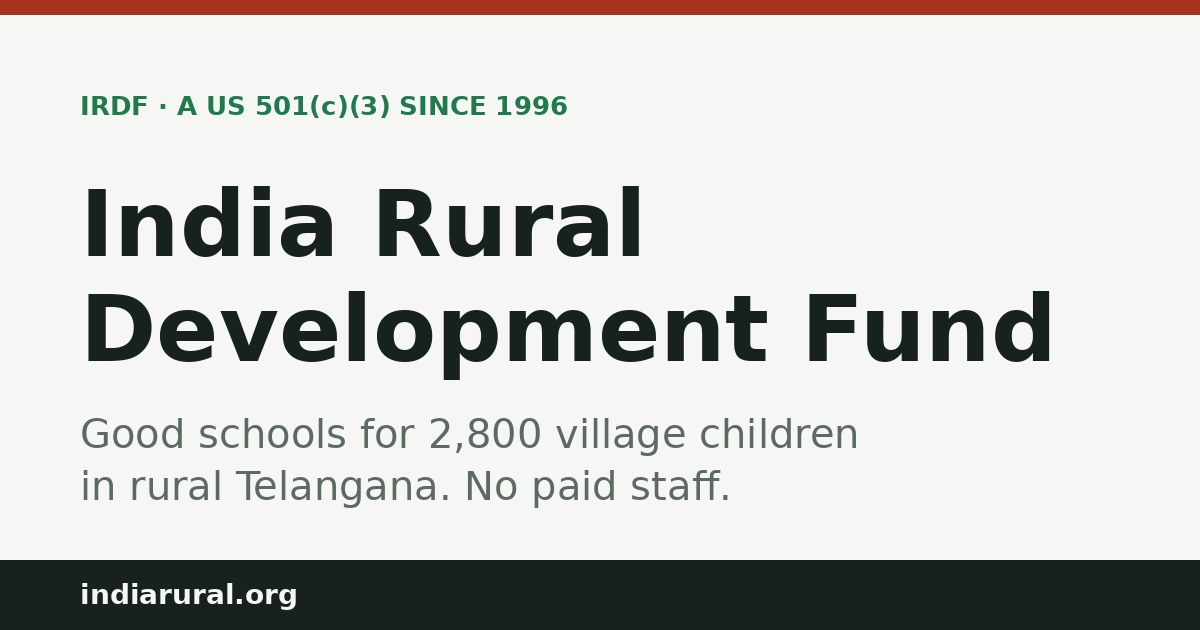
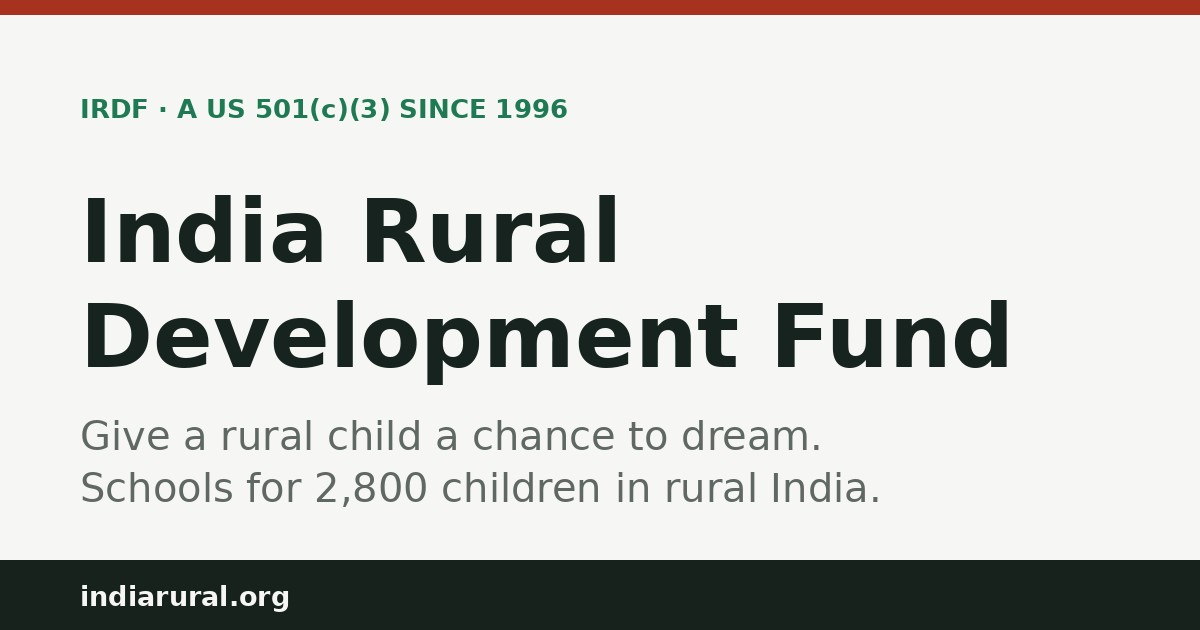
Hero: new tagline, India in place of Telangana; campaign title names 2026
Board feedback from Sunil Erraballi, Nov 14-15, 2026.

Claude-Session: https://claude.ai/code/session_017fsUp2MvLefTaQ3BwcCr2f

diff --git a/index.html b/index.html
@@ -5,9 +5,9 @@
 <meta name="viewport" content="width=device-width, initial-scale=1, viewport-fit=cover">
 <meta name="claude:viewport-fit-sides" content="cover">
 <title>India Rural Development Fund</title>
-<meta name="description" content="IRDF is a volunteer-run US 501(c)(3) that funds the Rural Development Foundation's five schools in rural Telangana, India. 2,824 students, no paid staff.">
+<meta name="description" content="IRDF is a volunteer-run US 501(c)(3) that funds the Rural Development Foundation's five schools in rural India. 2,824 students, no paid staff.">
 <meta property="og:title" content="India Rural Development Fund">
-<meta property="og:description" content="Quality schooling for 2,800 children in rural Telangana, since 1996. A volunteer-run US charity with no paid staff.">
+<meta property="og:description" content="Give a rural child a chance to dream. Schools for 2,800 children in rural India, since 1996. A volunteer-run US charity with no paid staff.">
 <meta property="og:image" content="https://indiarural.org/img/share.jpg">
 <meta property="og:type" content="website">
 <meta name="twitter:card" content="summary_large_image">
@@ -255,15 +255,15 @@ footer .te{font-family:var(--telugu);color:var(--fg)}
 <main id="top">
 
 <div class="camp" id="camp" hidden><div class="wrap">
-  <div><b id="camp-title">Fund 10 teachers for 2027</b> <span id="camp-meta"></span></div>
+  <div><b id="camp-title">2026 year-end appeal: fund 10 teachers</b> <span id="camp-meta"></span></div>
   <a href="#give" id="camp-link">Give by Dec 31 →</a>
 </div></div>
 
 <section class="hero"><div class="wrap hero-grid">
   <div class="hero-copy">
-    <p class="eyebrow">Rural Telangana, India · since 1996</p>
-    <h1>Good schools for village children in rural Telangana.</h1>
-    <p class="lede">In 1996, eighty children in one Telangana village started school with ten teachers. Today the Rural Development Foundation runs four schools and a junior college for <span class="mark num">2,824 students</span>, half of them girls. IRDF is the American charity that helps pay for it, with no paid staff and nothing taken off the top.</p>
+    <p class="eyebrow">India · since 1996</p>
+    <h1>Give a rural child a chance to dream.</h1>
+    <p class="lede">In 1996, eighty children in one village started school with ten teachers. Today the Rural Development Foundation runs four schools and a junior college for <span class="mark num">2,824 students</span>, half of them girls. IRDF is the American charity that helps pay for it, with no paid staff and nothing taken off the top.</p>
     <div class="hero-cta">
       <a class="btn" href="#give">Give to the schools</a>
       <a class="btn ghost" href="#money">See what a donation buys</a>
@@ -342,7 +342,7 @@ footer .te{font-family:var(--telugu);color:var(--fg)}
 <section id="money"><div class="wrap">
   <div class="sec-head">
     <p class="eyebrow">The money</p>
-    <h2>A dollar goes a long way in rural Telangana.</h2>
+    <h2>A dollar goes a long way in rural India.</h2>
     <p class="lede">IRDF has no office, no salaries and no fundraising costs. What you give is what the schools get, less a card fee. Here is roughly what it buys.</p>
   </div>
   <div class="money-grid">
@@ -373,7 +373,7 @@ footer .te{font-family:var(--telugu);color:var(--fg)}
     <p class="lede">Every donation goes to the schools. Pick an amount, or give the way your accountant prefers.</p>
   </div>
   <div class="goal" id="goal" hidden>
-    <div class="goal-top"><h3 id="goal-title">Fund 10 teachers for 2027</h3><span class="meta" id="goal-meta"></span></div>
+    <div class="goal-top"><h3 id="goal-title">2026 year-end appeal: fund 10 teachers</h3><span class="meta" id="goal-meta"></span></div>
     <div class="bar" id="goal-bar" hidden><i id="goal-fill"></i></div>
     <div class="teachers" id="goal-teachers" aria-label="Teachers funded so far"></div>
     <p class="meta" id="goal-note">$3,000 pays one teacher for a school year. A monthly donation of $250 funds a teacher on its own.</p>

diff --git a/README.md b/README.md
@@ -18,6 +18,8 @@ Static site. No build step. GitHub Pages serves `main` from the root.
 ## Rules from the board (Sunil Erraballi, Nov 11, 2026)
 
 - Use "donation" or "give". Do not use "gift".
+- Hero and share card (Sunil, Nov 14-15, 2026): the tagline is "Give a rural child a chance to dream." Say "India" in the hero, the headings and the share text. Do not name Telangana or Kalleda there. The Schools section gives each location.
+- The campaign title names the year of the appeal (2026), not the school year that the money pays for. The banner and the goal box hide by themselves after the `ends` date in data/campaign.json. For the next appeal, change the title and the dates in that file.
 - Do not centre the site on Kalleda. RDF runs five institutions. Mention Kalleda only as a fact of history.
 - Do not show the Kalleda house photo. The school moved to its own campus.
 - RDF is a separate legal entity. RDF is not a subsidiary of IRDF. Do not list the RDF address or the RDF email as an IRDF contact.
